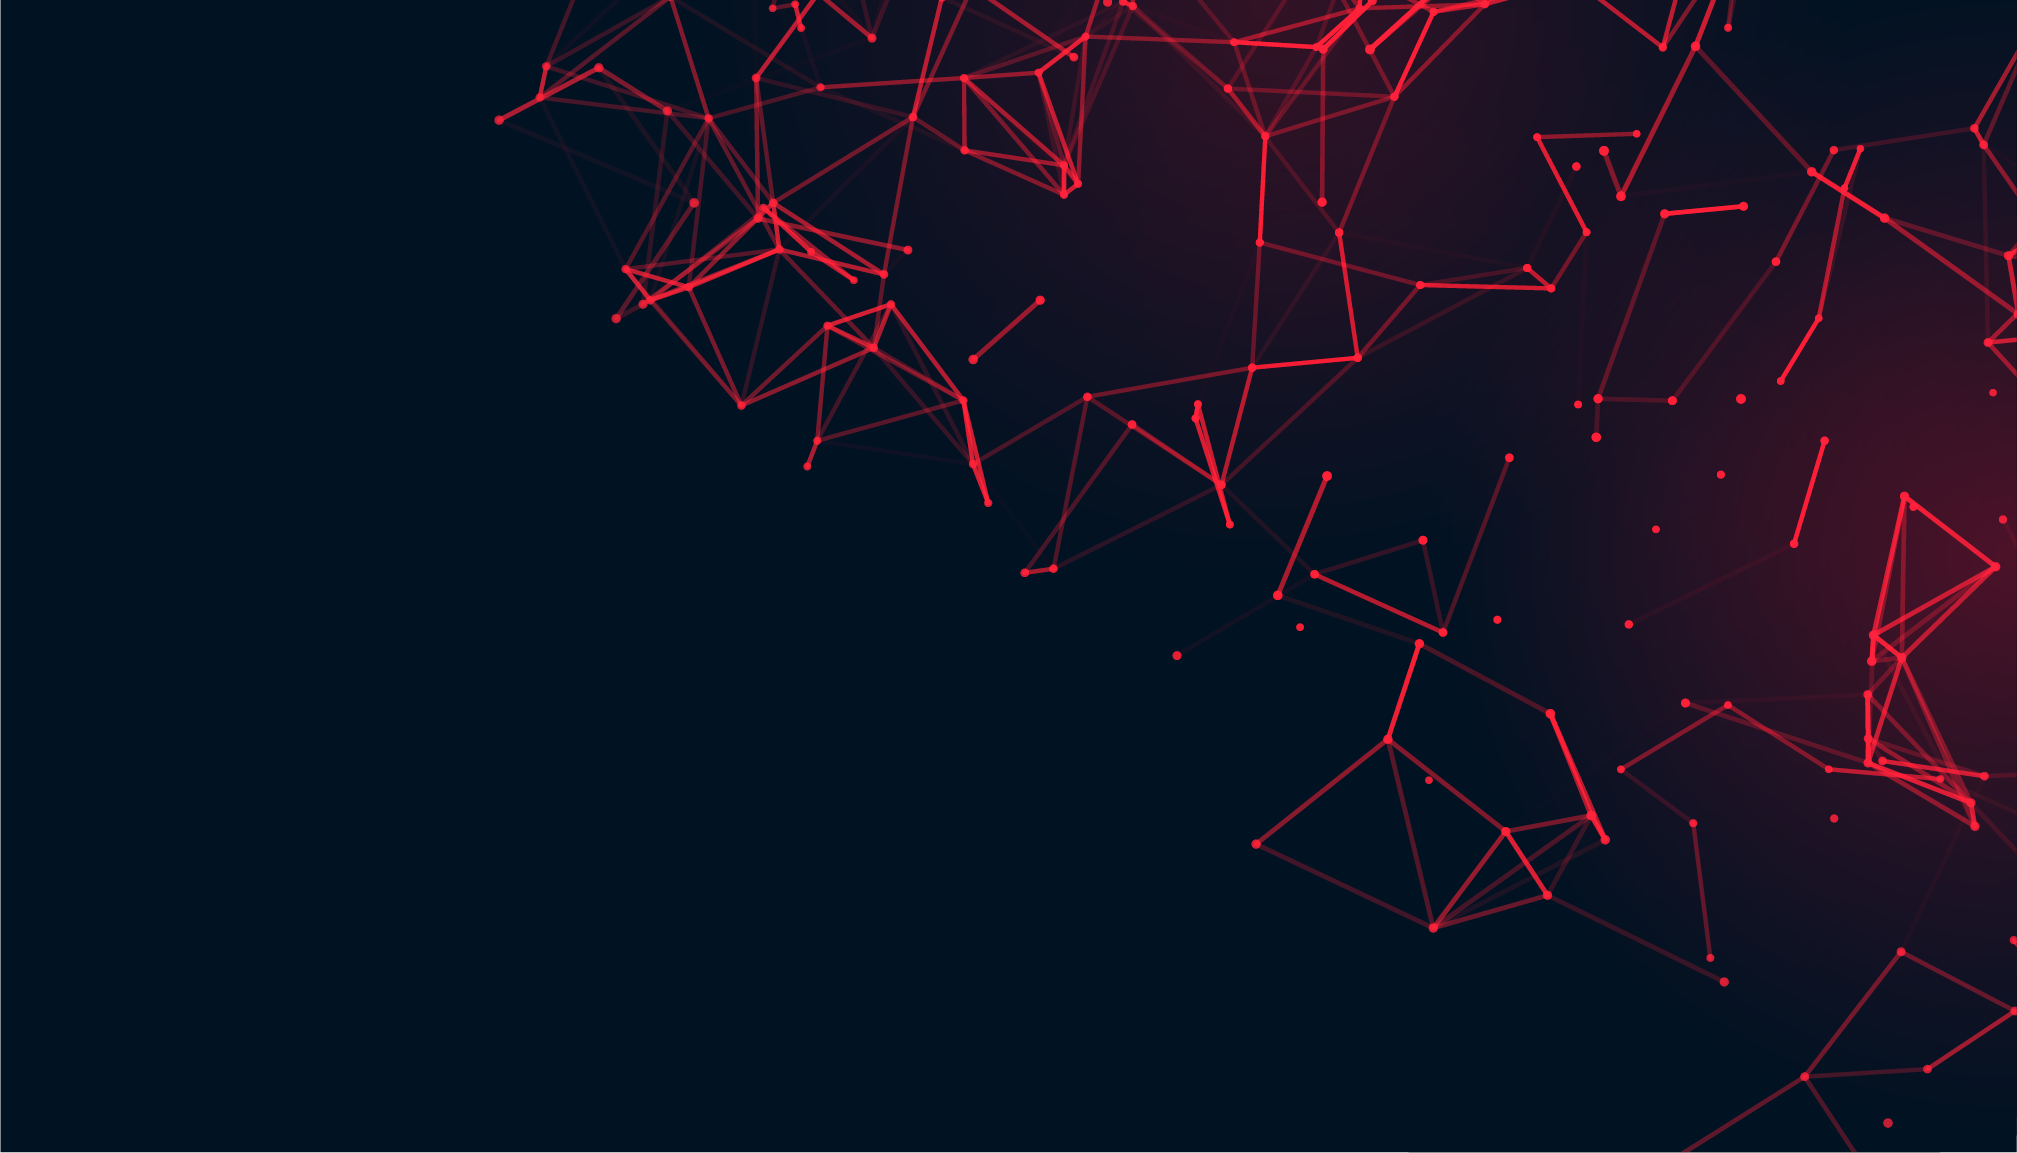
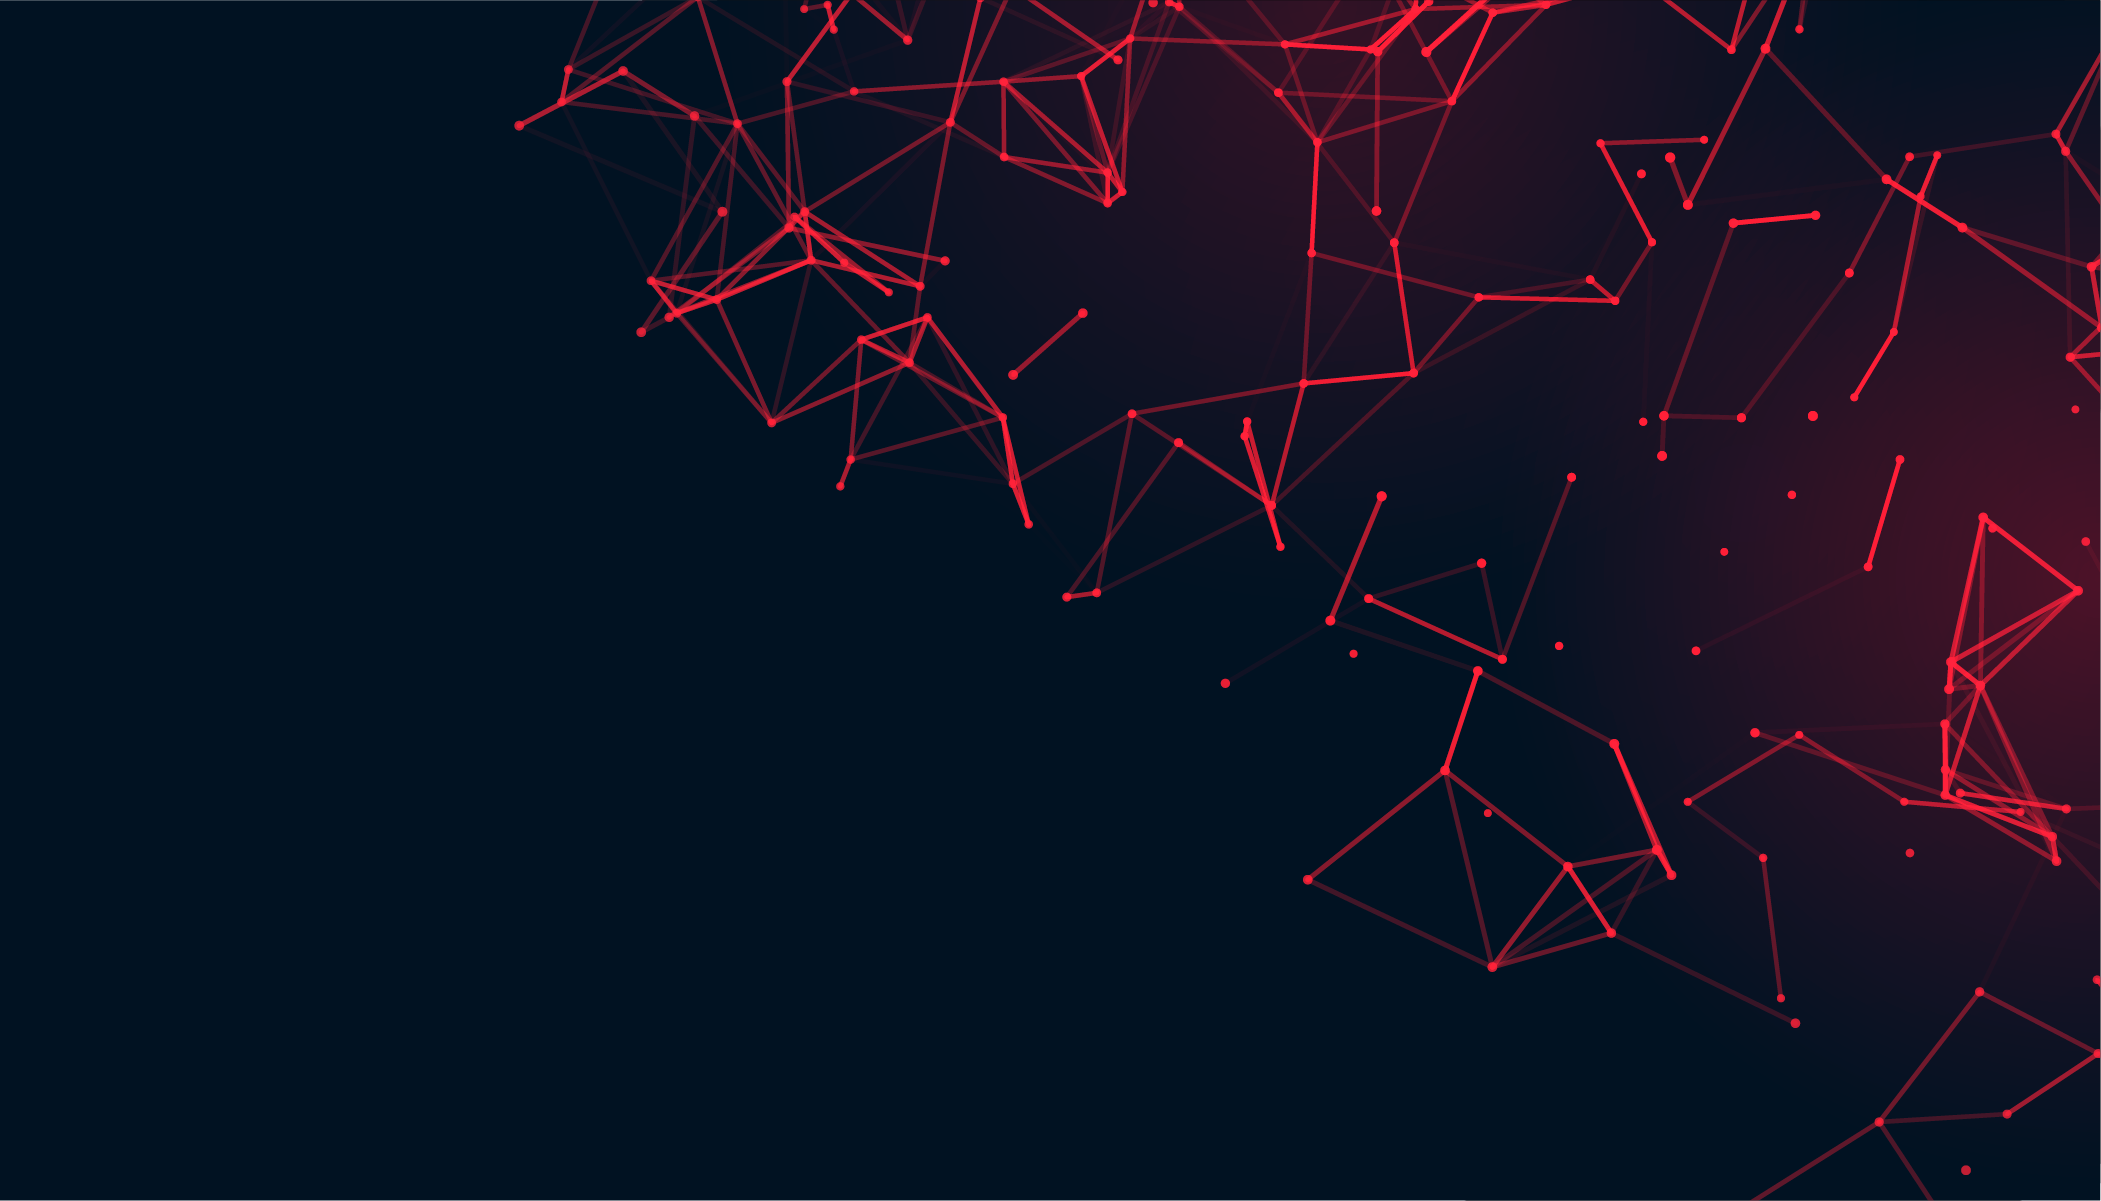
changed dun and bradsheet

diff --git a/components/ProductPage/Data.js b/components/ProductPage/Data.js
@@ -3,7 +3,7 @@ export const prodObjOne = {
   lightBg: true,
   lightText: false,
   lightTextDesc: false,
-  bg: require("../../public/thermo-background.png"),
+  bg: "",
   topLine: "",
   headline: "Thermo Fisher Scientific",
   description:
@@ -47,7 +47,7 @@ export const prodObjTwo = {
   lightTextDesc: false,
   topLine: "",
   headline: "Honeywell Safety and Productivty",
-  bg: require("../../public/honeywell-background.png"),
+  bg: "",
   description:
     "Neotek is the Authorized Distributor of Honeywell Gas Detection Portfolio for Pakistan. Honeywell Safety and Productivity Solutions (SPS) provides products, software and connected solutions that improve productivity, workplace safety and asset performance for our customers across the globe. We deliver on this promise through industry-leading mobile devices, software, cloud technology and automation solutions, the broadest range of personal protective equipment and gas detection technology, and custom-engineered sensors, switches and controls. We also manufacture and sell a broad portfolio of footwear for work, play and outdoor activities, including XTRATUF® and Muck Boot® brand footwear. SPS is a strategic business unit of Honeywell, a Fortune 100 technology company that delivers industry specific solutions that include aerospace products and services; control technologies for buildings and industry; and performance materials globally. Honeywell technologies help aircraft, buildings, manufacturing plants, supply chains, and workers become more connected to make our world smarter, safer, and more sustainable",
   buttonLabel: "More Products",
@@ -88,7 +88,7 @@ export const prodObjThree = {
   lightTextDesc: false,
   topLine: "",
   headline: "VWR A part of Avantor",
-  bg: require("../../public/vwr-background.jpg"),
+  bg: "",
   description:
     "Neotek is an Authorized Distributor of VWR for Pakistan. As the delivery channel of Avantor®, a Fortune 500 company, VWR provides access to mission-critical product and service solutions across life sciences and other regulated industries, including: Pharmaceutical, biotechnology, industrial, education, government, healthcare and advanced technologies. We offer an integrated, seamless purchasing experience that is optimized for the way our customers do business and supported by a strong global distribution network. Our global e-commerce platform gives you easy, convenient access to an extensive portfolio, including our own brands, as well as those from thousands of other manufacturers. Avantor is a trusted global partner to customers and suppliers in the life sciences and advanced technologies & applied materials industries. We set science in motion to create a better world.",
   buttonLabel: "More Products",
@@ -129,7 +129,7 @@ export const prodObjFour = {
   lightTextDesc: false,
   topLine: "",
   headline: "OnQ Soft QLIMS",
-  bg: require("../../public/qlims-background.png"),
+  bg: "",
   description:
     "OnQ Software are LIMS experts with a proven track record in delivering real benefits for laboratories around the globe. OnQ Software is Australia’s only locally owned LIMS provider. But our uniqueness isn’t in our location, it’s in our process.  From training, to implementation, servicing and updating, our team will work with you every step of the way. LIMS is just the starting point for your informatics platform. QLIMS is designed to empower scientists and does not need software developers to implement and maintain. Start with one of our feature filled SaaS editions and scale up when and as needed.",
   buttonLabel: "More Products",
@@ -170,7 +170,7 @@ export const prodObjFive = {
   lightTextDesc: false,
   topLine: "",
   headline: "ISystems Microsoft Dynamics 365",
-  bg: require("../../public/intel-background.png"),
+  bg: "",
   description:
     "We are a leading Microsoft Dynamics partner in Central and Eastern Europe, part of the Inner Circle - the highest recognition given to only 60 out of more than 10,000 Microsoft Dynamics Partners worldwide. We know the demands of international business considering more than 495 completed implementation projects in 55+ countries. Besides the international project management methodology we use in our global deliveries, we have also gained a lot of expertise in fiscal policies in many countries in Europe, the Americas, the Middle-East and Asia.",
   buttonLabel: "More Products",
@@ -212,7 +212,7 @@ export const prodObjSix = {
   lightTextDesc: false,
   topLine: "",
   headline: "MySCADA",
-  bg: require("../../public/scada-background.png"),
+  bg: "",
   description:
     "Neotek is the authorized distributor for mySCADA in Pakistan. mySCADA is an independent European (Czech) company having over 20 years of experience in industrial automation. Based on this experience, mySCADA is trying to do business in a little different way. There is an extra space in between creation and long-term cooperation with our customers being able to react to special customer needs very fast and reliably. Throughout the whole mySCADA existence, we have worked with plenty of vendors (Siemens, ABB, Rockwell…) on many different projects. We are focused not only on development but also on expertise and application of industrial systems creating competitive advantages for our clients. To maintain high-quality standards, we develop and produce our products exclusively in Europe. Thank you for your interest in mySCADA products. Without your initiative, there is no such relevant improvement in our system!",
   buttonLabel: "More Products",
@@ -252,7 +252,7 @@ export const prodObjSeven = {
   lightTextDesc: false,
   topLine: "",
   headline: "Perkin Elmer NIR Food Analyzers",
-  bg: require("../../public/perkin-background.png"),
+  bg: "",
   description:
     "We provide innovative detection, imaging, informatics and service capabilities, with the knowledge and expertise needed to help customers gain earlier and more accurate insights to improve lives and the world around us. Detection, imaging, laboratory services, and informatics solutions serving the needs of scientists, clinicians, and patients. We deliver innovative solutions in the areas of Diagnostics, Life Sciences, and Applied Markets. Our solutions help scientists, lab professionals, and clinicians answer important questions that connect the impact of the environment on human health.",
   buttonLabel: "More Products",
@@ -293,7 +293,7 @@ export const prodObjEight = {
   lightTextDesc: false,
   topLine: "",
   headline: "Gester Testing Solutions",
-  bg: require("../../public/gester-background.png"),
+  bg: "",
   description:
     "Neotek is the authorized distributor for Gester Instruments in Pakistan. Gester Instruments Co.,LTD is professionally engaged in production and R&D of physical properties testing equipment. With more than 20 years experience in research and development,we specialize in providing the total solutions of Toys and Baby Stuff Testing Equipment, Textiles & Garments Testing Equipment, Footwear Testing Equipment, Protective and Mask Testing Equipment. GESTER Group the subsidiaries company MKM Machinery is a specialist in designing & manufacturing of Mask Making Machine.",
   buttonLabel: "More Products",
@@ -334,7 +334,7 @@ export const prodObjNine = {
   lightTextDesc: false,
   topLine: "",
   headline: "Galvano Scientific Intruments",
-  bg: require("../../public/galvano-background.png"),
+  bg: "",
   description:
     "Neotek is the authorized distributor for Galvano Scientific for Northern Region. Since 1998, we are recognized because of our good quality instruments and best services. Galvano Scientific is a trusted name throughout the country. We have electronic engineers, software engineers, chemists, pharmacists and electronic diploma holders in our team who are key of our success. Our valued clients also guide us in improving and upgrading existing models and developing new ones. We are immensely grateful to all of them for their contribution.",
   buttonLabel: "More Products",
@@ -370,4 +370,3 @@ export const prodObjNine = {
     "Vertical design, elegant look, microprocessor controlled. LED display for temperature reading. Can accommodate 2 columsn of 300mm length, Small footprint with safety fuse, precise temperature control, double jacket body and magnetic doors for quick and easy operation. Can be connected to any HPLC.",
   item3image: require("../../public/gco.png"),
 };
-

diff --git a/pages/_document.js b/pages/_document.js
@@ -38,19 +38,10 @@ export default class MyDocument extends Document {
             href="https://fonts.googleapis.com/css2?family=Encode+Sans+Expanded:wght@400;700&display=swap"
             rel="stylesheet"
           />
-          <link
-            rel="stylesheet"
-            type="text/css"
-            charSet="UTF-8"
-            href="https://cdnjs.cloudflare.com/ajax/libs/slick-carousel/1.6.0/slick.min.css"
-          />
-          <link
-            rel="stylesheet"
-            type="text/css"
-            href="https://cdnjs.cloudflare.com/ajax/libs/slick-carousel/1.6.0/slick-theme.min.css"
-          />
           <meta httpEquiv="Content-Type" content="text/html; charset=utf-8" />
           <meta httpEquiv="Content-Security-Policy" content="" />
+          <link rel="preconnect" href="https://connect.facebook.net" />
+          <link rel="preconnect" href="https://www.googletagmanager.com" />
         </Head>
         <body style={{ background: "#E3E3E3" }}>
           <noscript>

diff --git a/pages/index.js b/pages/index.js
@@ -10,7 +10,6 @@ import CallToAction from "../components/CallToAction";
 import { motion } from "framer-motion";
 import ImageSlider from "../components/Slider/ImageSlider";
 
-
 const schemaData = {
   "@context": "https://schema.org",
   "@type": "ProfessionalService",
@@ -316,6 +315,18 @@ export default function Home() {
           href="https://fonts.googleapis.com/css2?family=Encode+Sans+Expanded:wght@400;700&display=swap"
           rel="stylesheet"
         />
+        <link
+          rel="stylesheet"
+          type="text/css"
+          charSet="UTF-8"
+          href="https://cdnjs.cloudflare.com/ajax/libs/slick-carousel/1.6.0/slick.min.css"
+        />
+        <link
+          rel="stylesheet"
+          type="text/css"
+          href="https://cdnjs.cloudflare.com/ajax/libs/slick-carousel/1.6.0/slick-theme.min.css"
+        />
+
         <title>NEOTEK PAKISTAN</title>
         <meta name="title" content="NEOTEK PAKISTAN" />
         <meta

diff --git a/components/CallToAction/index.js b/components/CallToAction/index.js
@@ -147,7 +147,7 @@ function CallToAction() {
     <CtaWrapper>
       <CtaContent>
         <CtaTop>
-          <h2>Find us on Dun & Bradsheet</h2>
+          {/* <h2>Find us on Dun & Bradsheet</h2>
           <a
             href="https://www.dnb.com/business-directory/company-profiles.neotech_suppliers_(pvt)_limited.54aef4857b4af815017300433d704eaa.html"
             target="_blank"
@@ -161,7 +161,7 @@ function CallToAction() {
                 height={100}
               />
             </ImageContainer>
-          </a>
+          </a> */}
           <h3 style={{ fontWeight: "50" }}>
             Are you ready to take your business to the next level with
             technology?

diff --git a/styles/globals.css b/styles/globals.css
@@ -4,10 +4,10 @@ body {
   margin: 0;
   font-family: "Encode Sans Expanded", sans-serif;
   /* background: #848999 !important; */
-  background: url("../public/bg.png") #011222 !important;
+  background: url("../public/bg.webp") #011222 !important;
   background-attachment: fixed !important;
   background-repeat: no-repeat !important;
-  background-size: contain;
+  background-size: 100% !important;
 
   /* background: linear-gradient(
     63deg,

diff --git a/pages/_app.js b/pages/_app.js
@@ -24,7 +24,7 @@ const App = ({ Component, pageProps }) => {
     <Layout>
       {/* Google Tag Manager - Global base code */}
       <Script
-        strategy="afterInteractive"
+        strategy="lazyOnload"
         dangerouslySetInnerHTML={{
           __html: `
             (function(w,d,s,l,i){w[l]=w[l]||[];w[l].push({'gtm.start':
